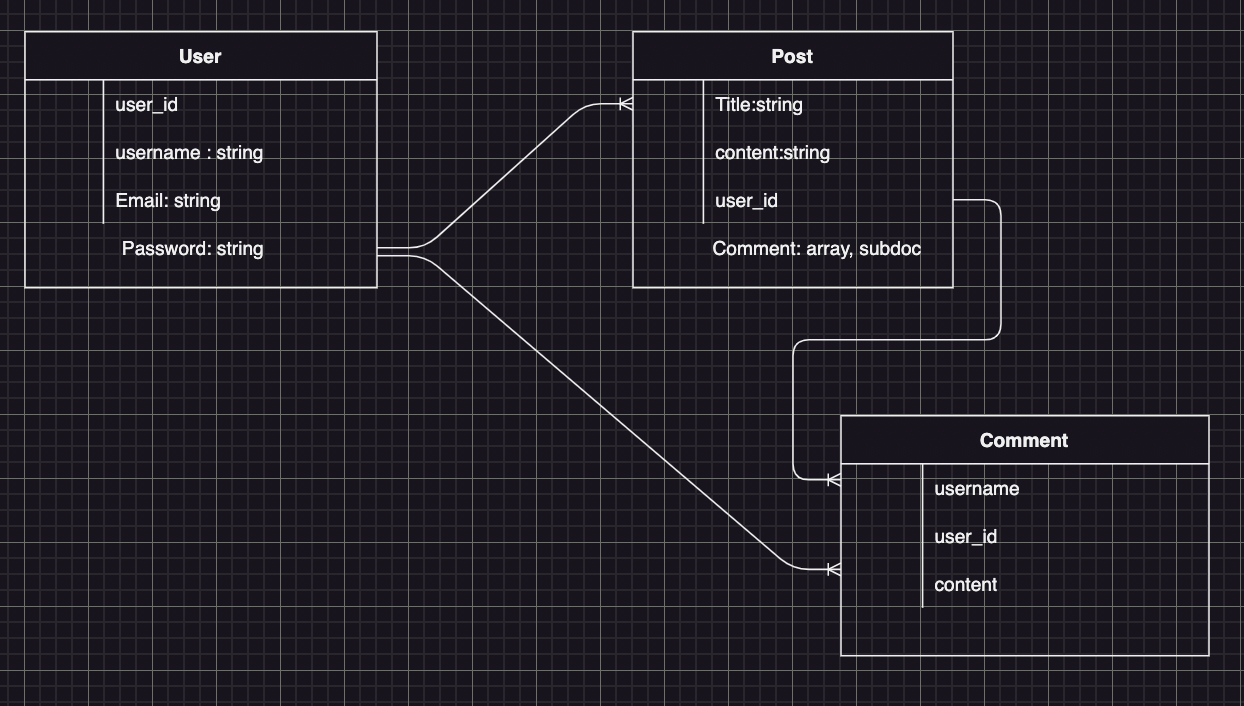
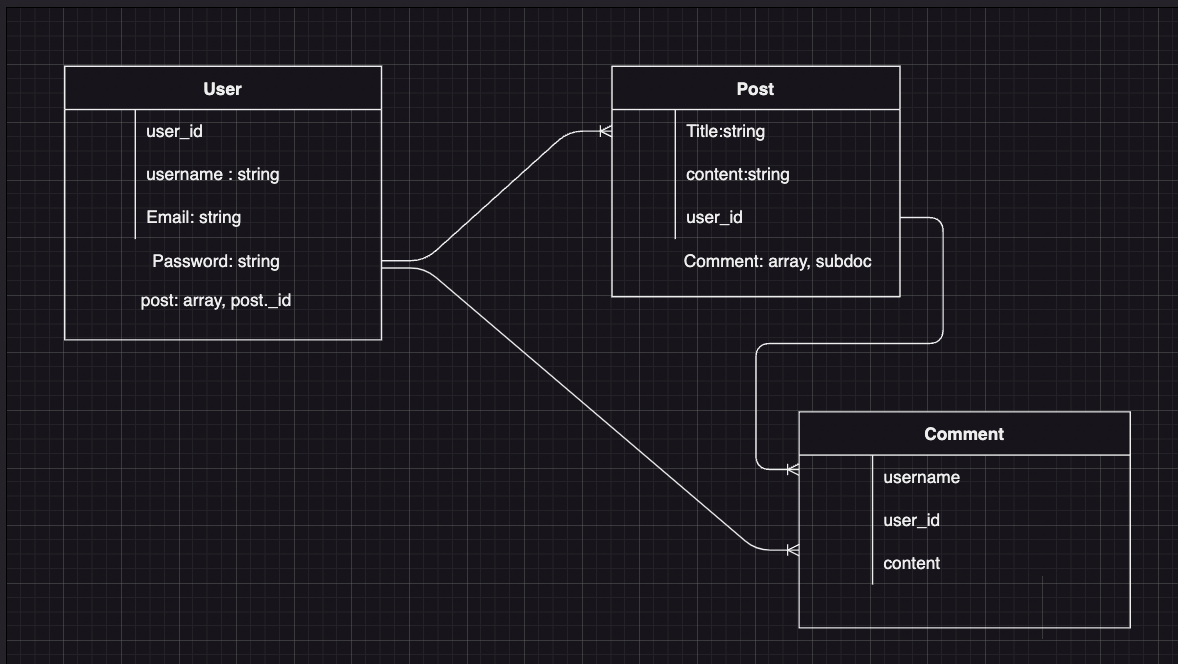
updated erd and name on readme

diff --git a/README.md b/README.md
@@ -1,4 +1,4 @@
-# [name of app goes here]
+# InstaKing
 
 ## Authors
 * Daniel Park 
@@ -7,7 +7,7 @@
 * Theo Robinson 
 
 ## Project Pitch and description 
-The year is 2023 and to some people's surprise, Twitter died. In its place, a new social media has sprung up. [Project 3] is a blog-style social media app that lets users post their thoughts and commenters can wage flame wars against each other in the comment sections (if it exists 🤫). 
+The year is 2023 and to some people's surprise, Twitter died. In its place, a new social media has sprung up. InstaKing is a blog-style social media app that lets users post their thoughts and commenters can wage flame wars against each other in the comment sections (if it exists 🤫). 
 
 ## ERD 
 ![Model](/screenshots/ERD.png)
